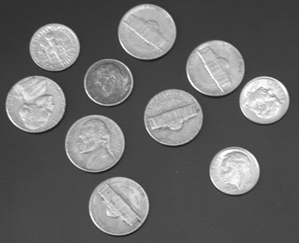
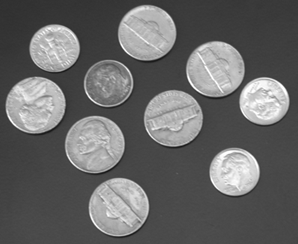
Lo que le mostramos a Javier, + bordes verdes

diff --git a/tpfinal/problema3/bordesPlot.m b/tpfinal/problema3/bordesPlot.m
@@ -25,7 +25,9 @@ function bordesPlot = bordesPlot(imagen_original, sensibilidad)
     borde_objetos = bwperim(objetos_reconocidos_final);
 
 % Solo para ver visualmente el borde sobre la imagen original.
-    imagen_gris = cat(3, I, I, I);
+    % Primero borramos los pixeles donde vamos a marcar bordes
+    I = I.*(uint8(~borde_objetos));
+    imagen_gris = cat(3, I, I, I); % Convertimos la imagen gris a RGB
     bordeVerde = 0*cat(3, I, I, I);
     for i=1:size(borde_objetos,1)
         for j=1:size(borde_objetos,2)
@@ -34,12 +36,13 @@ function bordesPlot = bordesPlot(imagen_original, sensibilidad)
             end
         end
     end
+    
+    % Dilatamos el borde obtenido para que se note más.
     bordeVerde= imdilate(bordeVerde, [seVertical seHorizontal]);
     imagen_con_bordes = imagen_gris + bordeVerde;
 
     figure;
-    imshow(imagen_con_bordes);
-    title('outlined original image');
+    imshowpair(imagen_original, imagen_con_bordes, 'montage');
+    title('Imagen             vs.             Imagen con Bordes');
     bordesPlot = borde_objetos;
 end
-%%

diff --git a/tpfinal/problema3/problema3.m b/tpfinal/problema3/problema3.m
@@ -1,23 +1,22 @@
+Image = imread('mafalda.jpg');
 % Image = imread('sign_language.jpg');
-% Image = imread('pacman.jpeg'); 
-%Image = imread('coins.png');
-% Image = imread('milk.jpg'); % FEA
+% Image = imread('coins.png');
+% Image = imread('monedas.jpeg');
 % Image = imread('lenna.jpg');
 % Image = imread('images.png');
 % Image = imread('wrenches.jpg');
 % Image = imread('people.png');
-Image = imread('mafalda.jpg');
-
-% Images = ['sign_language.jpg', 'pacman.jpeg', 'coins.png', 'milk.jpg','lenna.jpg','images.png','wrenches.jpg','people.png'];
+% Image = imread('pacman.jpeg'); 
+% Image = imread('florero2.jpg'); 
+% Image = imread('bottles.png'); 
+% Image = imread('ketchup2.jpg'); 
 if(size(Image,3) > 1)
     I = rgb2gray(Image);
 else
     I = Image;
 end
+% imshow(I);
 f_objetivo = @(x) f_obj(I, x, 300);
-min_threshold = fminbnd(f_objetivo, 0.01, 3)
+min_sensibilidad = fminbnd(f_objetivo, 0.01, 3)
 
-% plot(fudges, thresholds);
-bordesPlot(I, min_threshold);
-
-            
+bordesPlot(I, min_sensibilidad);

diff --git a/tpfinal/problema3/bordes.m b/tpfinal/problema3/bordes.m
@@ -25,24 +25,6 @@ function bordes = bordes(imagen_original, sensibilidad)
     objetos_reconocidos_final = imerode(objetos_reconocidos_final,seD);
 
     borde_objetos = bwperim(objetos_reconocidos_final);
-
-% Solo para ver visualmente el borde sobre la imagen original.
-    if (graficar)
-        imagen_gris = cat(3, I, I, I);
-        bordeVerde = 0*cat(3, I, I, I);
-        for i=1:size(borde_objetos,1)
-            for j=1:size(borde_objetos,2)
-                if borde_objetos(i,j)
-                    bordeVerde(i,j,2)= 255;
-                end
-            end
-        end
-        imagen_con_bordes = imagen_gris + bordeVerde;
-
-        figure;
-        imshow(imagen_con_bordes);
-        title('outlined original image');
-    end
     bordes = borde_objetos;
 end
 

diff --git a/tpfinal/problema3/f_obj.m b/tpfinal/problema3/f_obj.m
@@ -1,5 +1,5 @@
-function f_obj = f_obj(imagen_original, fudge, nu)
-    bordes_imagen = bordes(imagen_original, fudge);
+function f_obj = f_obj(imagen_original, sensibilidad, nu)
+    bordes_imagen = bordes(imagen_original, sensibilidad);
     f_obj = funcional(imagen_original, bordes_imagen, nu);
 end
 
